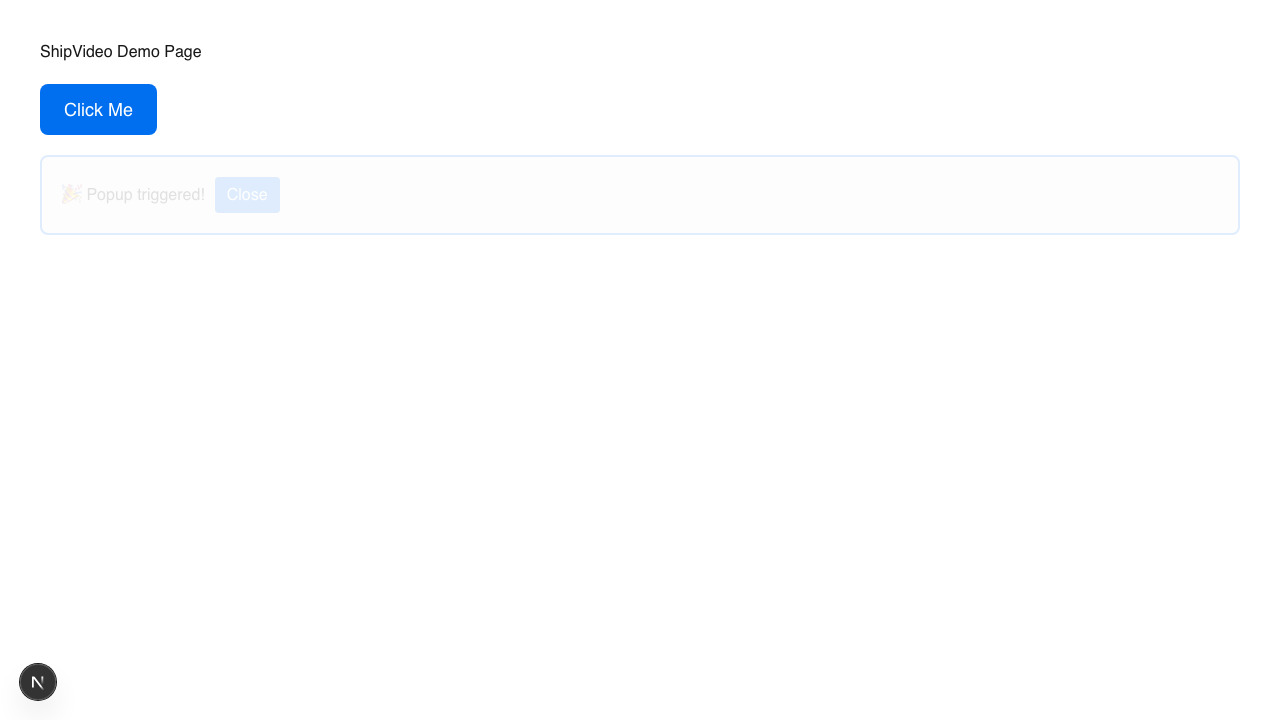
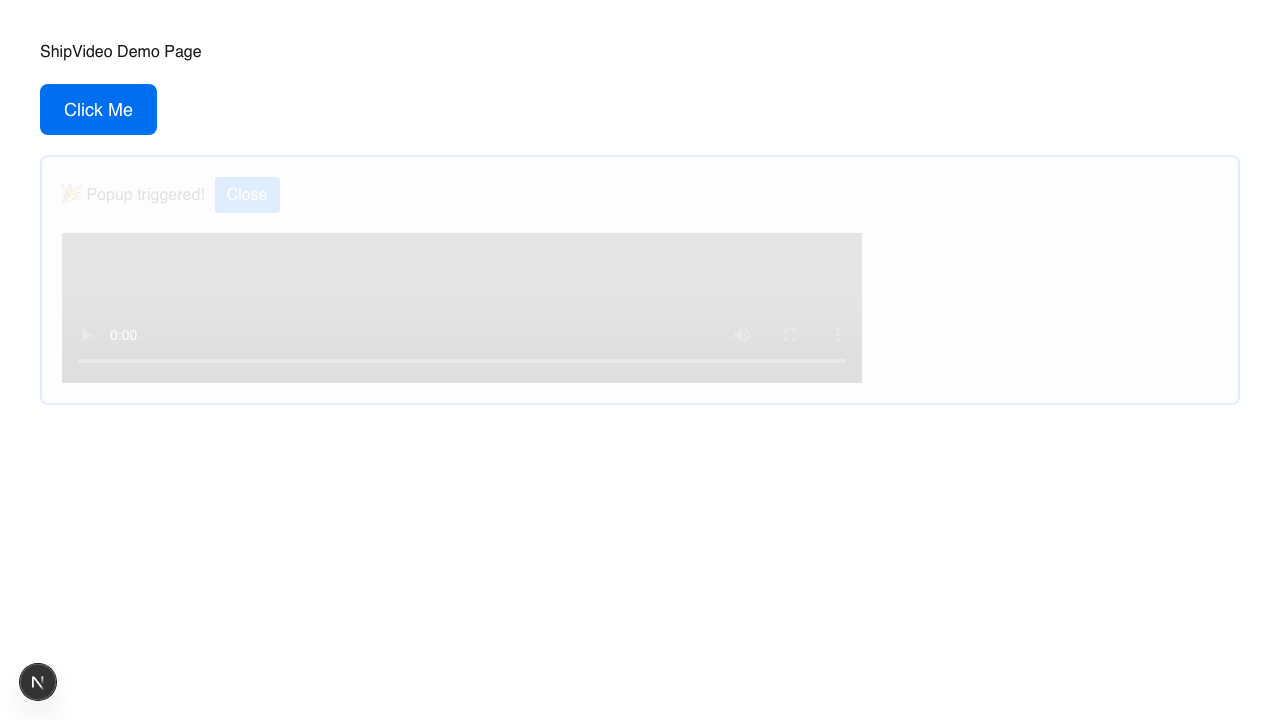
Pr automation

Changed region(s): [[0.0312, 0.3056, 0.6875, 0.55], [0.9375, 0.3056, 0.9688, 0.3361]]

diff --git a/app/github_comment.py b/app/github_comment.py
@@ -1,0 +1,46 @@
+import logging
+from github import Github, GithubException
+import os
+
+logger = logging.getLogger(__name__)
+VIDEO_URL = "http://localhost:8000/out.mp4"
+
+def comment_on_pr(repo_full_name: str, pr_number: int, job_id: str):
+    logger.info(
+        "Posting PR comment",
+        extra={
+            "job_id": job_id,
+            "repo": repo_full_name,
+            "pr": pr_number,
+        }
+    )
+
+    token = os.getenv("GITHUB_TOKEN")
+    if not token:
+        logger.error("Missing GITHUB_TOKEN", extra={"job_id": job_id})
+        raise RuntimeError("Missing GitHub token")
+
+    try:
+        g = Github(token)
+        repo = g.get_repo(repo_full_name)
+        pr = repo.get_pull(pr_number)
+
+        pr.create_issue_comment(
+            f"🎬 **Auto-generated demo video**\n\n{VIDEO_URL}"
+        )
+
+        logger.info(
+            "PR comment posted successfully",
+            extra={"job_id": job_id}
+        )
+
+    except GithubException as e:
+        logger.exception(
+            "Failed to post PR comment",
+            extra={
+                "job_id": job_id,
+                "status": e.status,
+                "data": e.data,
+            }
+        )
+        raise

diff --git a/app/job_runner.py b/app/job_runner.py
@@ -1,0 +1,27 @@
+import subprocess
+import os
+
+APP_DIR = os.path.dirname(__file__)
+
+def run_pipeline():
+    """
+    Runs capture -> render.
+    Assumes frontend is already running.
+    """
+    print("▶️ Starting video pipeline")
+
+    # 1. Capture screenshots
+    subprocess.run(
+        ["python", "capture.py"],
+        cwd=APP_DIR,
+        check=True
+    )
+
+    # 2. Render video
+    subprocess.run(
+        ["python", "render.py"],
+        cwd=APP_DIR,
+        check=True
+    )
+
+    print("✅ Video pipeline finished")

diff --git a/app/webhook.py b/app/webhook.py
@@ -5,7 +5,9 @@ from pathlib import Path
 from fastapi import Request, Response
 from fastapi.responses import StreamingResponse
 import math
-
+from app.github_comment import comment_on_pr  
+from threading import Thread
+from app.job_runner import run_pipeline
 
 app = FastAPI()
 
@@ -73,13 +75,26 @@ def verify_signature(signature, payload):
     mac = hmac.new(GITHUB_SECRET.encode(), payload, hashlib.sha256)
     return hmac.compare_digest(f"sha256={mac.hexdigest()}", signature)
 
-# Webhook endpoint
 @app.post("/webhook")
 async def webhook(request: Request, x_hub_signature_256: str = Header(...)):
     body = await request.body()
+
     if not verify_signature(x_hub_signature_256, body):
         return {"status": "invalid signature"}
+
     event = json.loads(body)
-    print("PR Event:", event)
-    # TODO: trigger capture/render job here
-    return {"status": "ok"}
+
+    # Only react to PR opened
+    if event.get("action") != "opened":
+        return {"status": "ignored"}
+
+    pr_number = event["pull_request"]["number"]
+    repo_full_name = event["repository"]["full_name"]
+
+    def background_job():
+        run_pipeline()
+        comment_on_pr(repo_full_name, pr_number)
+
+    Thread(target=background_job).start()
+
+    return {"status": "accepted"}